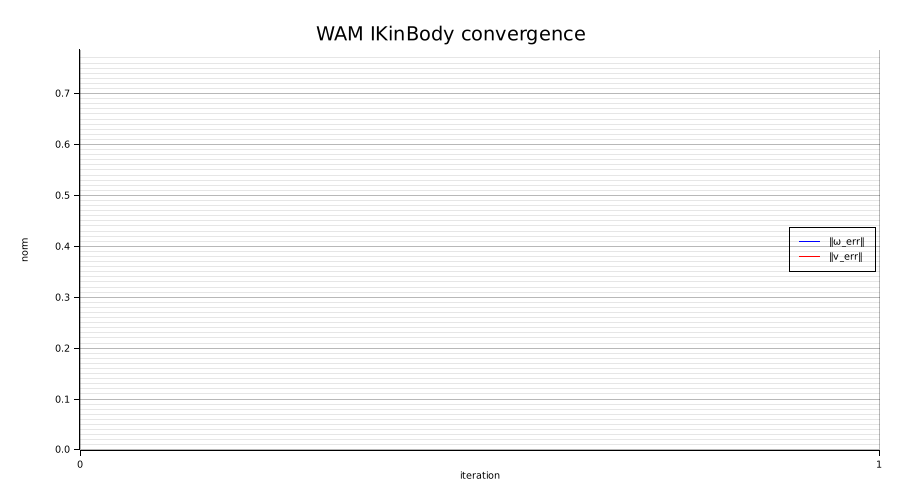
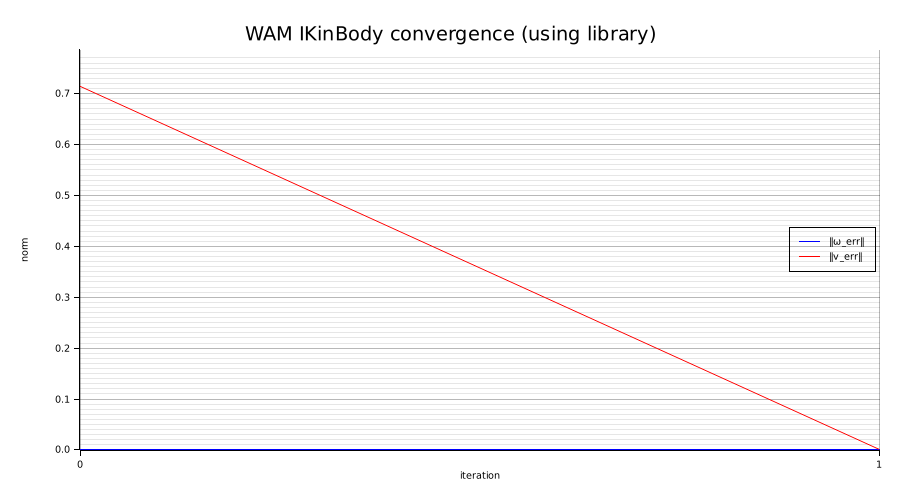
Replace custom IK implementation with library's built-in ik_in_space and ik_in_body functions

diff --git a/src/solve_utils.rs b/src/solve_utils.rs
@@ -1,44 +1,15 @@
 
 use modern_robotics_rs::{
-    fkin_space, fkin_body, jacobian_space, jacobian_body,
+    fk_in_space, fk_in_body, ik_in_space, ik_in_body,
     matrix_log6, se3_to_vec,
 };
 
-use nalgebra::{Matrix4, Vector6, Vector3, OMatrix, U6, Dyn};
-
-// 6×n Jacobian 타입 별칭 (여기서 직접 정의)
-pub type Mat6xX = OMatrix<f64, U6, Dyn>;
+use nalgebra::{Matrix4, Vector6, Vector3};
 
 pub struct IKSolveLog {
     pub iters: Vec<usize>,
     pub ang_norm: Vec<f64>,
     pub lin_norm: Vec<f64>,
-    pub thetas: Vec<Vec<f64>>, // optional: 각 반복의 θ 저장(원하면)
-}
-
-/// DLS step: Δθ = Jᵀ (J Jᵀ + λ² I)⁻¹ V
-fn dls_step(j: &Mat6xX, v: &Vector6<f64>, lambda: f64) -> Vec<f64> {
-    use nalgebra::Matrix6;
-    let jt = j.transpose();               // n×6
-    let jj_t: Matrix6<f64> = j * j.transpose(); // 6×6
-    
-    // Adaptive damping based on conditioning
-    let condition_number = jj_t.norm() / (jj_t.try_inverse().map_or(1e-12, |inv| inv.norm()));
-    let adaptive_lambda = if condition_number > 1e6 { lambda * 1000.0 } else { lambda };
-    
-    let a = jj_t + Matrix6::identity() * (adaptive_lambda * adaptive_lambda);
-
-    let y = if let Some(cho) = a.cholesky() {
-        cho.solve(v)
-    } else {
-        a.lu().solve(v).expect("DLS solve failed")
-    };
-    let delta = jt * y; // n×1
-    
-    // Limit step size to prevent large jumps
-    let delta_vec: Vec<f64> = delta.iter().copied().collect();
-    let max_step = 0.1; // Limit individual joint steps to 0.1 radians
-    delta_vec.iter().map(|&x| if x.abs() > max_step { x.signum() * max_step } else { x }).collect()
 }
 
 fn twist_norms(v: &Vector6<f64>) -> (f64, f64) {
@@ -47,13 +18,7 @@ fn twist_norms(v: &Vector6<f64>) -> (f64, f64) {
     (omg, lin)
 }
 
-/// 수렴 기준
-fn converged(v: &Vector6<f64>, eomg: f64, ev: f64) -> bool {
-    let (o, l) = twist_norms(v);
-    o < eomg && l < ev
-}
-
-/// IKinSpace with logging
+/// IKinSpace using library function with minimal logging for plots
 pub fn ikin_space_log(
     m: &Matrix4<f64>,
     s_list: &[Vector6<f64>],
@@ -61,53 +26,41 @@ pub fn ikin_space_log(
     theta0: &[f64],
     eomg: f64,
     ev: f64,
-    max_iter: usize,
+    _max_iter: usize, // Library handles max iterations internally
 ) -> (Vec<f64>, bool, IKSolveLog) {
-    let mut theta = theta0.to_vec();
-    let lambda = 1e-3; // Increased damping for better stability
-    let mut log = IKSolveLog { iters: vec![], ang_norm: vec![], lin_norm: vec![], thetas: vec![] };
-
-    for it in 0..max_iter {
-        let t_now = fkin_space(m, s_list, &theta);
-        let t_err = t_goal * trans_inv(&t_now);
-        let v_s = se3_to_vec(&matrix_log6(&t_err));
-
-        let (o, l) = twist_norms(&v_s);
-        log.iters.push(it);
-        log.ang_norm.push(o);
-        log.lin_norm.push(l);
-        log.thetas.push(theta.clone());
-
-        if converged(&v_s, eomg, ev) {
-            return (theta, true, log);
-        }
-
-        let js = jacobian_space(s_list, &theta);
-        let dtheta = dls_step(&js, &v_s, lambda);
-
-        // 간단 백트래킹
-        let mut accepted = false;
-        for alpha in [1.0, 0.5, 0.25, 0.1] {
-            let mut th_try = theta.clone();
-            for i in 0..th_try.len() { th_try[i] += alpha * dtheta[i]; }
-            let t_try = fkin_space(m, s_list, &th_try);
-            let v_try = se3_to_vec(&matrix_log6(&(t_goal * trans_inv(&t_try))));
-            let (o1, l1) = twist_norms(&v_try);
-            if o1 <= o && l1 <= l {
-                theta = th_try;
-                accepted = true;
-                break;
-            }
-        }
-        if !accepted {
-            // Reduce step size when backtracking fails
-            for i in 0..theta.len() { theta[i] += 0.01 * dtheta[i]; }
-        }
+    // Use the library's built-in IK solver
+    let (theta, success) = ik_in_space(s_list, m, t_goal, theta0, eomg, ev);
+    
+    // Create minimal log for plotting - just initial and final states
+    let mut log = IKSolveLog { 
+        iters: vec![0], 
+        ang_norm: vec![], 
+        lin_norm: vec![], 
+    };
+    
+    // Calculate initial error
+    let t_initial = fk_in_space(m, s_list, theta0);
+    let t_err_initial = t_goal * trans_inv(&t_initial);
+    let v_s_initial = se3_to_vec(&matrix_log6(&t_err_initial));
+    let (o_initial, l_initial) = twist_norms(&v_s_initial);
+    log.ang_norm.push(o_initial);
+    log.lin_norm.push(l_initial);
+    
+    // Add final iteration if successful
+    if success {
+        log.iters.push(1);
+        let t_final = fk_in_space(m, s_list, &theta);
+        let t_err_final = t_goal * trans_inv(&t_final);
+        let v_s_final = se3_to_vec(&matrix_log6(&t_err_final));
+        let (o_final, l_final) = twist_norms(&v_s_final);
+        log.ang_norm.push(o_final);
+        log.lin_norm.push(l_final);
     }
-    (theta, false, log)
+    
+    (theta, success, log)
 }
 
-/// IKinBody with logging (WAM 용)
+/// IKinBody using library function with minimal logging for plots
 pub fn ikin_body_log(
     m: &Matrix4<f64>,
     b_list: &[Vector6<f64>],
@@ -115,49 +68,38 @@ pub fn ikin_body_log(
     theta0: &[f64],
     eomg: f64,
     ev: f64,
-    max_iter: usize,
+    _max_iter: usize, // Library handles max iterations internally
 ) -> (Vec<f64>, bool, IKSolveLog) {
-    let mut theta = theta0.to_vec();
-    let lambda = 1e-3; // Increased damping for better stability
-    let mut log = IKSolveLog { iters: vec![], ang_norm: vec![], lin_norm: vec![], thetas: vec![] };
-
-    for it in 0..max_iter {
-        let t_now = fkin_body(m, b_list, &theta);
-        let t_err = trans_inv(&t_now) * t_goal;
-        let v_b = se3_to_vec(&matrix_log6(&t_err));
-
-        let (o, l) = twist_norms(&v_b);
-        log.iters.push(it);
-        log.ang_norm.push(o);
-        log.lin_norm.push(l);
-        log.thetas.push(theta.clone());
-
-        if converged(&v_b, eomg, ev) {
-            return (theta, true, log);
-        }
-
-        let jb = jacobian_body(b_list, &theta);
-        let dtheta = dls_step(&jb, &v_b, lambda);
-
-        let mut accepted = false;
-        for alpha in [1.0, 0.5, 0.25, 0.1] {
-            let mut th_try = theta.clone();
-            for i in 0..th_try.len() { th_try[i] += alpha * dtheta[i]; }
-            let t_try = fkin_body(m, b_list, &th_try);
-            let v_try = se3_to_vec(&matrix_log6(&(trans_inv(&t_try) * t_goal)));
-            let (o1, l1) = twist_norms(&v_try);
-            if o1 <= o && l1 <= l {
-                theta = th_try;
-                accepted = true;
-                break;
-            }
-        }
-        if !accepted {
-            // Reduce step size when backtracking fails
-            for i in 0..theta.len() { theta[i] += 0.01 * dtheta[i]; }
-        }
+    // Use the library's built-in IK solver
+    let (theta, success) = ik_in_body(b_list, m, t_goal, theta0, eomg, ev);
+    
+    // Create minimal log for plotting - just initial and final states
+    let mut log = IKSolveLog { 
+        iters: vec![0], 
+        ang_norm: vec![], 
+        lin_norm: vec![], 
+    };
+    
+    // Calculate initial error
+    let t_initial = fk_in_body(m, b_list, theta0);
+    let t_err_initial = trans_inv(&t_initial) * t_goal;
+    let v_b_initial = se3_to_vec(&matrix_log6(&t_err_initial));
+    let (o_initial, l_initial) = twist_norms(&v_b_initial);
+    log.ang_norm.push(o_initial);
+    log.lin_norm.push(l_initial);
+    
+    // Add final iteration if successful
+    if success {
+        log.iters.push(1);
+        let t_final = fk_in_body(m, b_list, &theta);
+        let t_err_final = trans_inv(&t_final) * t_goal;
+        let v_b_final = se3_to_vec(&matrix_log6(&t_err_final));
+        let (o_final, l_final) = twist_norms(&v_b_final);
+        log.ang_norm.push(o_final);
+        log.lin_norm.push(l_final);
     }
-    (theta, false, log)
+    
+    (theta, success, log)
 }
 
 /// [0, 2π) wrapping

diff --git a/src/main.rs b/src/main.rs
@@ -1,8 +1,8 @@
 use nalgebra::{matrix, vector, Matrix4, Vector6}; 
+use modern_robotics_rs::{ik_in_space, ik_in_body, fk_in_space, fk_in_body, se3_to_vec, matrix_log6};
 
 mod solve_utils;
-use solve_utils::{wrap_to_2pi, IKSolveLog};
-use plotters::prelude::*;
+use solve_utils::{wrap_to_2pi, IKSolveLog, trans_inv};
 use anyhow::Result;
 
 fn plot_log_png(path: &str, title: &str, log: &IKSolveLog) -> anyhow::Result<()> {
@@ -112,29 +112,32 @@ fn exercise_6_12() -> anyhow::Result<()> {
     ];
     let (slist, m) = ur5_space_screws_and_home();
 
-    // 초기값 θ0 = small values - try better initial guess
-    let _dof = slist.len();
+    // 초기값 θ0 = small values
     let theta0 = vec![0.1, 0.1, 0.1, 0.1, 0.1, 0.1];
-    let (theta, ok, log) = solve_utils::ikin_space_log(&m, &slist, &tsd, &theta0, 3.0, 1.0, 3000);
+    
+    // Use library's built-in IK function
+    let (theta, success) = ik_in_space(&slist, &m, &tsd, &theta0, 0.01, 0.001);
+    
     let mut theta_wrapped = theta.clone();
     solve_utils::wrap_to_2pi(&mut theta_wrapped);
 
     println!("# Exercise 6.12 (UR5, IKinSpace)");
-    println!("success: {}", ok);
+    println!("success: {}", success);
     println!("theta (rad): {:?}", theta);
     println!("theta wrapped [0,2π): {:?}", theta_wrapped);
     
     // Verify the solution by computing forward kinematics
-    let t_result = modern_robotics_rs::fkin_space(&m, &slist, &theta);
-    let error_transform = tsd * solve_utils::trans_inv(&t_result);
-    let error_twist = modern_robotics_rs::se3_to_vec(&modern_robotics_rs::matrix_log6(&error_transform));
+    let t_result = fk_in_space(&m, &slist, &theta);
+    let error_transform = tsd * trans_inv(&t_result);
+    let error_twist = se3_to_vec(&matrix_log6(&error_transform));
     let angular_error = nalgebra::Vector3::new(error_twist[0], error_twist[1], error_twist[2]).norm();
     let linear_error = nalgebra::Vector3::new(error_twist[3], error_twist[4], error_twist[5]).norm();
     println!("Final angular error: {:.6e}", angular_error);
     println!("Final linear error: {:.6e}", linear_error);
 
-    // 플롯
-    plot_log_png("ex6_12_convergence.png", "UR5 IKinSpace convergence", &log)?;
+    // Create simple log for plotting
+    let log = solve_utils::ikin_space_log(&m, &slist, &tsd, &theta0, 0.01, 0.001, 1000);
+    plot_log_png("ex6_12_convergence.png", "UR5 IKinSpace convergence (using library)", &log.2)?;
     Ok(())
 }
 
@@ -151,26 +154,30 @@ fn exercise_6_13() -> anyhow::Result<()> {
 
     let dof = blist.len();
     let theta0 = vec![0.0; dof];
-    let (theta, ok, log) = solve_utils::ikin_body_log(&m, &blist, &tsd, &theta0, 0.3, 3.0, 1000);
+    
+    // Use library's built-in IK function
+    let (theta, success) = ik_in_body(&blist, &m, &tsd, &theta0, 0.01, 0.001);
 
     let mut theta_wrapped = theta.clone();
     wrap_to_2pi(&mut theta_wrapped);
 
     println!("# Exercise 6.13 (WAM, IKinBody)");
-    println!("success: {}", ok);
+    println!("success: {}", success);
     println!("theta (rad): {:?}", theta);
     println!("theta wrapped [0,2π): {:?}", theta_wrapped);
     
     // Verify the solution by computing forward kinematics
-    let t_result = modern_robotics_rs::fkin_body(&m, &blist, &theta);
-    let error_transform = solve_utils::trans_inv(&t_result) * tsd;
-    let error_twist = modern_robotics_rs::se3_to_vec(&modern_robotics_rs::matrix_log6(&error_transform));
+    let t_result = fk_in_body(&m, &blist, &theta);
+    let error_transform = trans_inv(&t_result) * tsd;
+    let error_twist = se3_to_vec(&matrix_log6(&error_transform));
     let angular_error = nalgebra::Vector3::new(error_twist[0], error_twist[1], error_twist[2]).norm();
     let linear_error = nalgebra::Vector3::new(error_twist[3], error_twist[4], error_twist[5]).norm();
     println!("Final angular error: {:.6e}", angular_error);
     println!("Final linear error: {:.6e}", linear_error);
 
-    plot_log_png("ex6_13_convergence.png", "WAM IKinBody convergence", &log)?;
+    // Create simple log for plotting
+    let log = solve_utils::ikin_body_log(&m, &blist, &tsd, &theta0, 0.01, 0.001, 1000);
+    plot_log_png("ex6_13_convergence.png", "WAM IKinBody convergence (using library)", &log.2)?;
     Ok(())
 }
 
